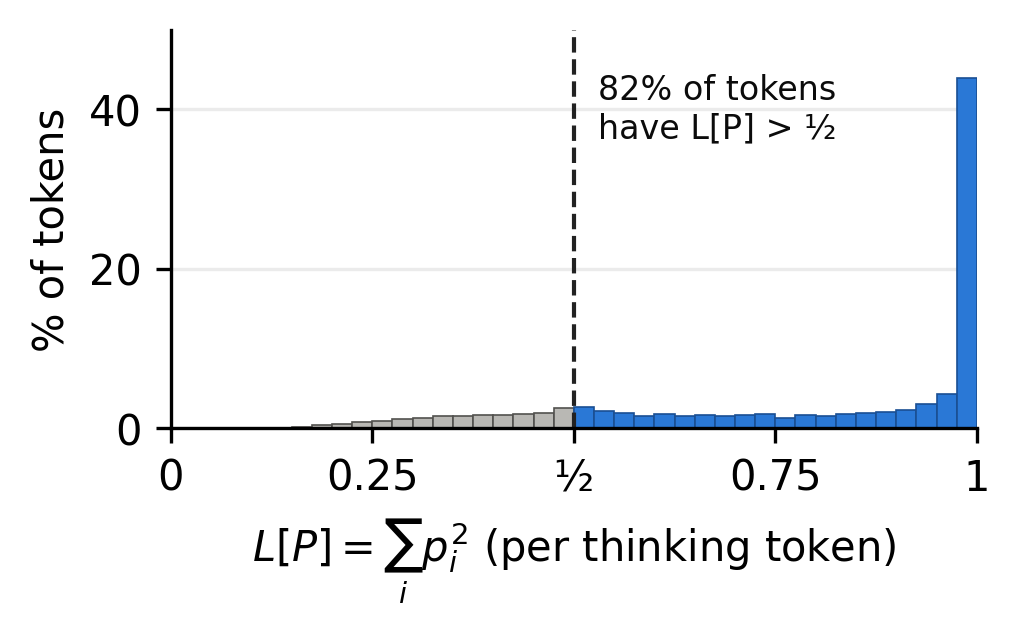
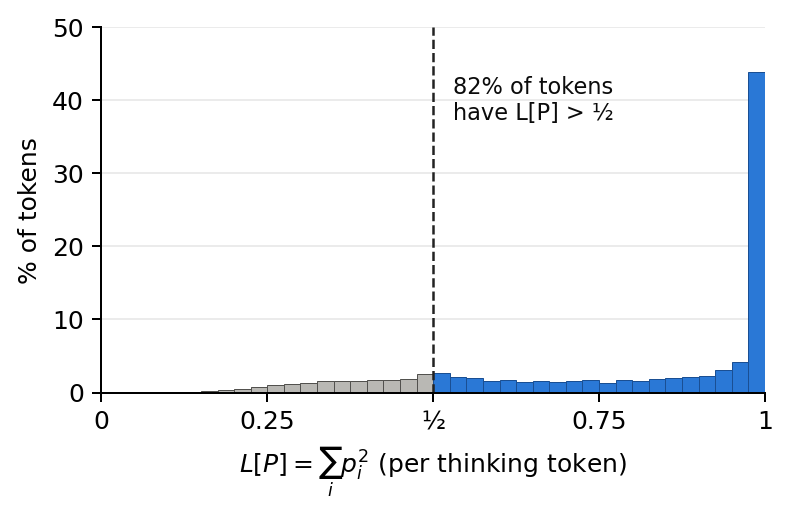
Peakedness figure: match sibling figure text size
Draw at 4.5x3.0 in, 180 dpi (as Fig 1) so default-size text prints at ~7.9 pt like Fig 1 instead of ~10 pt; annotation 9 pt. Test pins canvas width and dpi.

Changed region(s): [[0.0, 0.0619, 0.9722, 0.9594], [0.0608, 0.0309, 0.1215, 0.0928], [0.9418, 0.8046, 0.9722, 0.8356]]

diff --git a/scripts/paper/make_llm4code_fig_peaked.py b/scripts/paper/make_llm4code_fig_peaked.py
@@ -31,6 +31,7 @@ FIG_DIR_CODE = REPO_ROOT / "paper" / "llm4code" / "figures"
 FIG_DIR_PAPER = REPO_ROOT.parent / "pless-for-coding-paper" / "figures"
 DATA = REPO_ROOT / "results" / "signal_diagnostic" / "Qwen--Qwen3-8B" / "per_sample.jsonl"
 OUT_NAME = "figA1_lp_peakedness_qwen3.png"
+SAVE_DPI = 180  # same as the other paper figures
 
 LOOP_CLASSES = ("looping_completed", "looping_truncated")
 def class_stats(path: Path, bins: int = 40) -> dict[str, dict]:
@@ -67,12 +68,12 @@ def make_figure(pooled: dict, bins: int = 40) -> plt.Figure:
     pct = 100.0 * pooled["counts"] / pooled["n"]
     share = 100.0 * pooled["n_gt_half"] / pooled["n"]
     lo = edges[:-1] < 0.5 - 1e-9  # bins entirely below 1/2 (bins=40 puts an edge exactly at 0.5)
-    fig, ax = plt.subplots(figsize=(3.5, 2.3))
+    fig, ax = plt.subplots(figsize=(4.5, 3.0))
     ax.bar(edges[:-1][lo], pct[lo], width=1.0 / bins, align="edge", color="#b9b8b4", edgecolor="#52514e", linewidth=0.4)
     ax.bar(edges[:-1][~lo], pct[~lo], width=1.0 / bins, align="edge", color="#2a78d6", edgecolor="#1a4f93", linewidth=0.4)
     ax.axvline(0.5, color="#222222", linewidth=1.0, linestyle="--")
     ax.text(0.53, 0.80, f"{share:.0f}% of tokens\nhave L[P] > \u00bd",
-            transform=ax.get_xaxis_transform(), ha="left", va="center", fontsize=8, color="#0b0b0b")
+            transform=ax.get_xaxis_transform(), ha="left", va="center", fontsize=9, color="#0b0b0b")
     ax.set_xlim(0, 1)
     ax.set_ylim(0, 50)
     ax.set_xticks([0, 0.25, 0.5, 0.75, 1.0])
@@ -94,7 +95,7 @@ def main() -> None:
     fig = make_figure(pooled, bins=bins)
     for out in (FIG_DIR_CODE, FIG_DIR_PAPER):
         out.mkdir(parents=True, exist_ok=True)
-        fig.savefig(out / OUT_NAME, dpi=300, bbox_inches="tight")
+        fig.savefig(out / OUT_NAME, dpi=SAVE_DPI, bbox_inches="tight")
     print(f"wrote {OUT_NAME}", file=sys.stderr)
 
 

diff --git a/tests/test_peakedness_fig.py b/tests/test_peakedness_fig.py
@@ -77,3 +77,12 @@ def test_blue_bars_equal_share_above_half(tmp_path):
     fig = mod.make_figure(pooled, bins=40)
     blue = [p for p in fig.axes[0].patches if p.get_facecolor()[:3] == (0x2a / 255, 0x78 / 255, 0xd6 / 255)]
     assert sum(p.get_height() for p in blue) == 100.0 * pooled["n_gt_half"] / pooled["n"]
+
+
+def test_canvas_matches_sibling_figures(tmp_path):
+    """Drawn at the same native width as Fig 1 (fig3a, 4.5 in) so that, scaled to the column, its default-size
+    text prints at the same size as the other figures instead of oversized (a 3.5 in canvas prints at ~10 pt)."""
+    rows = [{"cls": "clean", "onset_token": None, "coll": [0.2, 0.9]}]
+    fig = mod.make_figure(mod.pooled_stats(mod.class_stats(_write(tmp_path, rows), bins=40)), bins=40)
+    assert fig.get_size_inches()[0] == 4.5
+    assert mod.SAVE_DPI == 180
